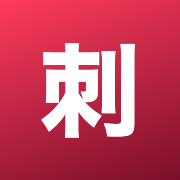
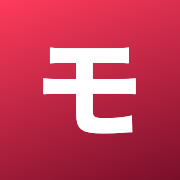
名前をモチベに変更

Changed region(s): [[0.2222, 0.2222, 0.7778, 0.7778]]

diff --git a/app.js b/app.js
@@ -1,5 +1,5 @@
 'use strict';
-// ササル — 刺さったスクショを縦スワイプで見返す PWA。データは端末の IndexedDB だけに保存する。
+// モチベ — 刺さったスクショを縦スワイプで見返す PWA。データは端末の IndexedDB だけに保存する。
 
 const $ = s => document.querySelector(s);
 const esc = s => String(s).replace(/[&<>"']/g, c => ({'&':'&amp;','<':'&lt;','>':'&gt;','"':'&quot;',"'":'&#39;'}[c]));
@@ -398,7 +398,7 @@ function openTagEditor(targets, done) {
 async function shareCur() {
   const m = curMeta(); if (!m) return;
   const b = await getBlob('images', m.id);
-  const file = new File([b], `sasaru-${m.id}.jpg`, { type: 'image/jpeg' });
+  const file = new File([b], `motibe-${m.id}.jpg`, { type: 'image/jpeg' });
   if (navigator.canShare && navigator.canShare({ files: [file] })) {
     try { await navigator.share({ files: [file], text: m.memo || undefined }); } catch (e) {}
   } else {
@@ -567,7 +567,7 @@ async function exportZip() {
       const th = await getBlob('thumbs', m.id); if (th) entries.push({ name: `thumbs/${m.id}.jpg`, blob: th });
     }
     const zip = await makeZip(entries, (i, n) => { s.querySelector('#bk').style.width = (i / n * 100) + '%'; s.querySelector('#bkT').textContent = `${i} / ${n}`; });
-    const d = new Date(); const name = `sasaru-backup-${d.getFullYear()}${String(d.getMonth() + 1).padStart(2, '0')}${String(d.getDate()).padStart(2, '0')}.zip`;
+    const d = new Date(); const name = `motibe-backup-${d.getFullYear()}${String(d.getMonth() + 1).padStart(2, '0')}${String(d.getDate()).padStart(2, '0')}.zip`;
     const file = new File([zip], name, { type: 'application/zip' });
     importing = false; closeSheet();
     if (navigator.canShare && navigator.canShare({ files: [file] })) {
@@ -585,7 +585,7 @@ $('#zipIn').addEventListener('change', async e => {
   const s = openSheet(`<h2>戻しています…</h2><div class="bar"><i id="rs"></i></div><p id="rsT"></p>`);
   try {
     const files = await readZip(f);
-    if (!files['meta.json']) throw new Error('ササルのバックアップではありません');
+    if (!files['meta.json']) throw new Error('モチベのバックアップではありません');
     const data = JSON.parse(await files['meta.json'].text());
     const known = new Set(metas.map(m => m.hash)); let added = 0, n = 0;
     for (const m of data.items) {

diff --git a/index.html b/index.html
@@ -7,9 +7,9 @@
 <meta name="apple-mobile-web-app-capable" content="yes">
 <meta name="mobile-web-app-capable" content="yes">
 <meta name="apple-mobile-web-app-status-bar-style" content="black-translucent">
-<meta name="apple-mobile-web-app-title" content="ササル">
+<meta name="apple-mobile-web-app-title" content="モチベ">
 <meta name="theme-color" content="#000000">
-<title>ササル</title>
+<title>モチベ</title>
 <link rel="manifest" href="manifest.webmanifest">
 <link rel="apple-touch-icon" href="icons/icon-180.png">
 <link rel="icon" href="icons/icon-192.png">
@@ -20,8 +20,8 @@
 
 <div id="empty" hidden>
   <div class="empty-in">
-    <div class="logo">刺</div>
-    <h1>ササル</h1>
+    <div class="logo">モ</div>
+    <h1>モチベ</h1>
     <p>刺さった名言・名シーンのスクショを入れて、<br>縦スワイプで見返すアプリです。</p>
     <button class="big" data-act="add">＋ スクショをまとめて追加</button>
     <p class="hint">写真アプリから何枚でも一度に選べます。<br>同じスクショは自動で飛ばします。</p>

diff --git a/sw.js b/sw.js
@@ -1,5 +1,5 @@
 // オフラインでも開けるように、アプリ本体だけをキャッシュする(画像は IndexedDB)。
-const V = 'sasaru-v1';
+const V = 'sasaru-v2';
 const FILES = ['./', 'index.html', 'style.css', 'app.js', 'manifest.webmanifest', 'icons/icon-180.png', 'icons/icon-192.png', 'icons/icon-512.png'];
 self.addEventListener('install', e => { e.waitUntil(caches.open(V).then(c => c.addAll(FILES)).then(() => self.skipWaiting())); });
 self.addEventListener('activate', e => { e.waitUntil(caches.keys().then(ks => Promise.all(ks.filter(k => k !== V).map(k => caches.delete(k)))).then(() => self.clients.claim())); });

diff --git a/README.md b/README.md
@@ -1,4 +1,4 @@
-# ササル
+# モチベ(旧名ササル。URL・保存場所の名前は sasaru のまま)
 
 公開 URL: https://ashi40041052-eng.github.io/sasaru/ (リポジトリ: github.com/ashi40041052-eng/sasaru、GitHub Pages)
 
